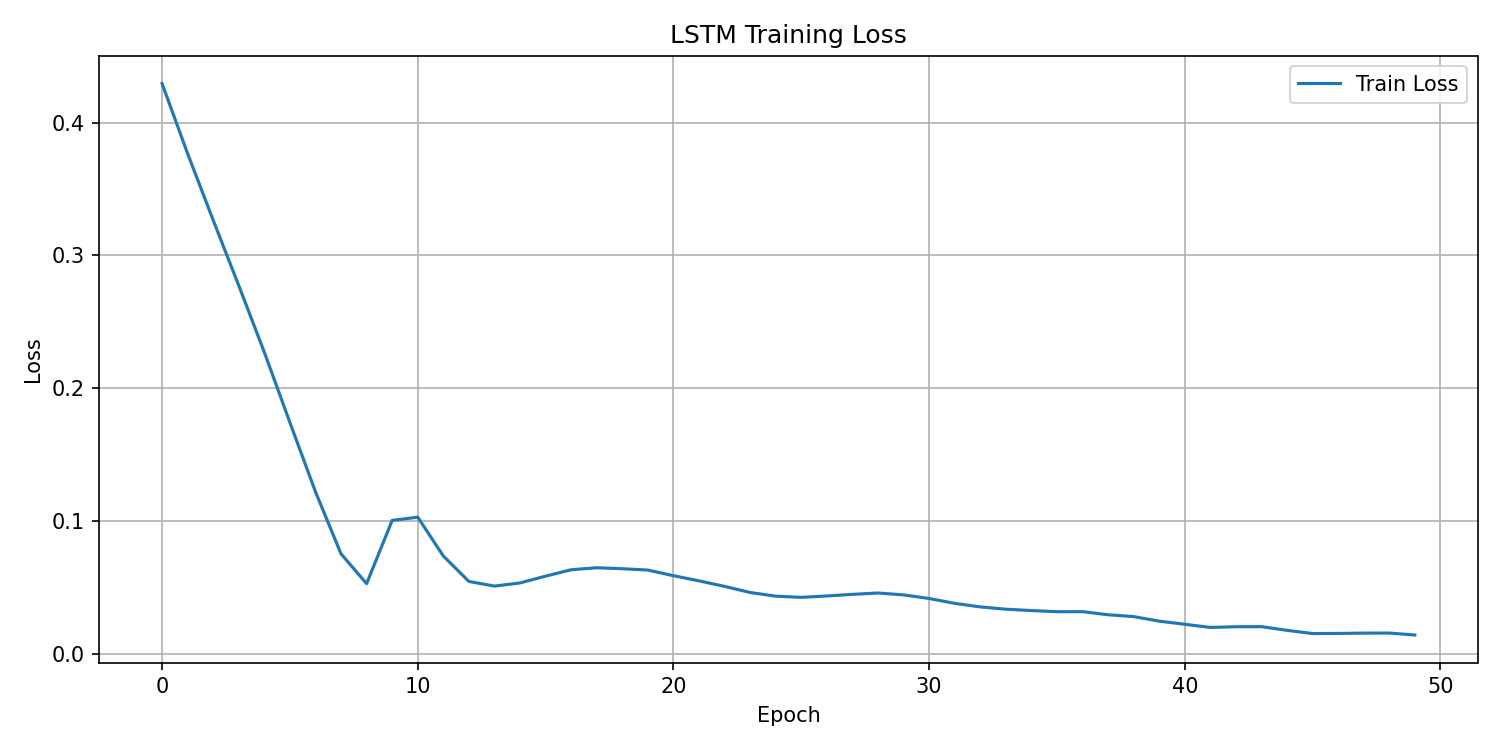
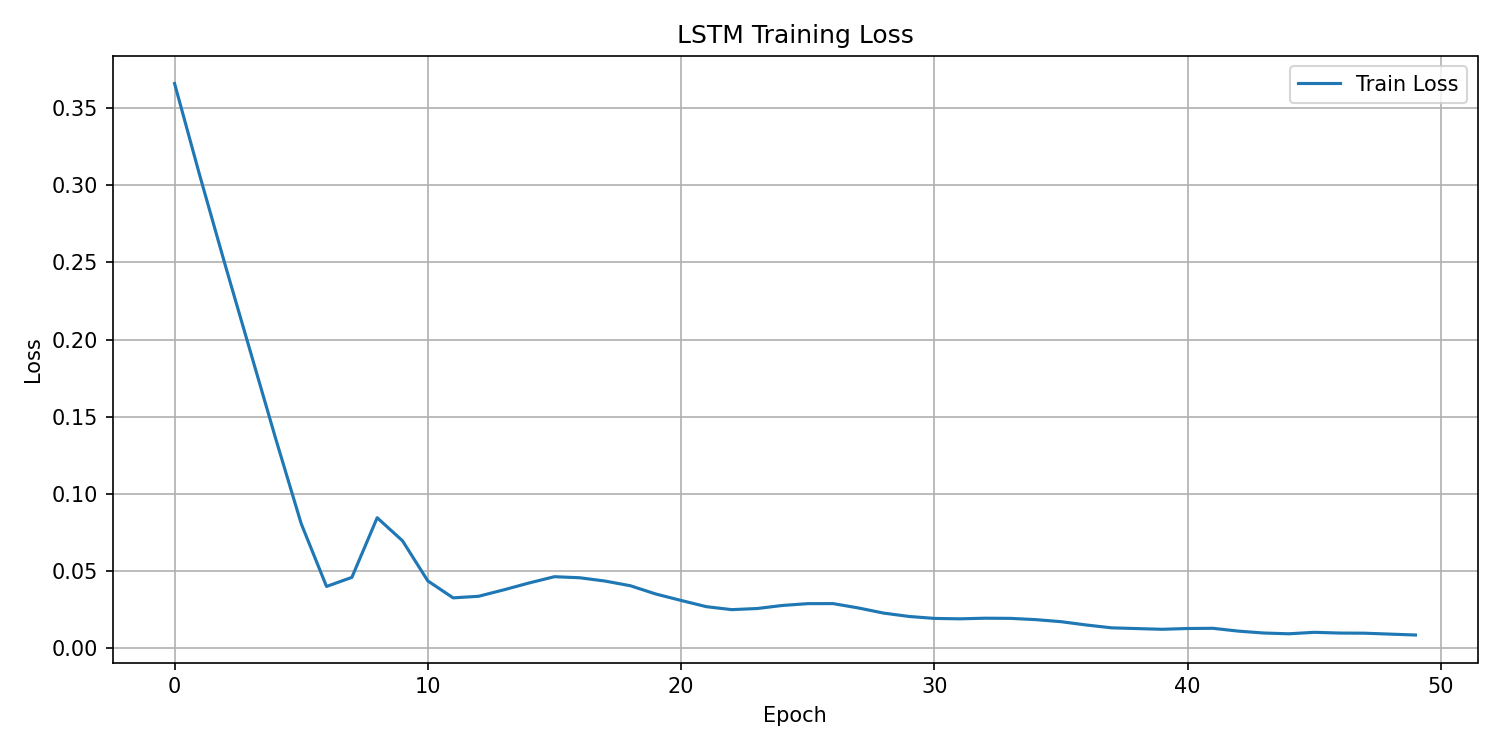
[feat] multi feature 적용

diff --git a/scripts/train_lstm.py b/scripts/train_lstm.py
@@ -1,6 +1,5 @@
-# train_lstm.py
+# scripts/train_lstm.py
 import json
-import os
 import torch
 import numpy as np
 import pandas as pd
@@ -9,53 +8,47 @@ from sklearn.preprocessing import MinMaxScaler
 from app.models.lstm_model import LSTMPricePredictor
 from app.services.data_loader import fetch_upbit_data
 import joblib
-from scripts.config_lstm import SEQ_LEN, HIDDEN_SIZE, NUM_LAYERS, LR, EPOCHS, COUNT,INPUT_SIZE,OUTPUT_SIZE, MODEL_PATH, SCALER_PATH
+import os
 import matplotlib.pyplot as plt
 from sklearn.metrics import mean_squared_error, mean_absolute_error, r2_score
+from scripts.config_lstm import SEQ_LEN, HIDDEN_SIZE, NUM_LAYERS, LR, EPOCHS, COUNT, INPUT_SIZE, OUTPUT_SIZE, MODEL_PATH, SCALER_PATH
 
-def make_sequences(data, seq_len):
+def make_sequences(data, seq_len=60):
     x, y = [], []
     for i in range(len(data) - seq_len):
         x.append(data[i:i+seq_len])
-        y.append(data[i+seq_len][0])  # 종가만 예측
+        y.append(data[i+seq_len, 0])  # 종가 예측 기준
     return np.array(x), np.array(y)
-
 
 def train_lstm():
     df = fetch_upbit_data(count=COUNT)
+    features = ["close", "open", "high", "low"]  # 여기를 필요에 따라 수정해도 됨
+
     if df is None or len(df) < SEQ_LEN:
         print("📉 데이터 부족. 최소 시퀀스 길이보다 작음.")
         return
-    # 멀티 피처 확장 여부 판단
-    if INPUT_SIZE == 4:
-        df = df[['timestamp', 'open', 'high', 'low', 'close', 'volume']]
-        features = df[['close', 'volume', 'high', 'low']].values
-    else:
-        df = df[['timestamp', 'close']]
-        features = df[['close']].values
 
-    # close = df['close'].values.reshape(-1, 1)
+    feature_data = df[features].values
     scaler = MinMaxScaler()
-    # scaled = scaler.fit_transform(close)
-    scaled = scaler.fit_transform(features)
+    scaled = scaler.fit_transform(feature_data)
 
-
-    x_data, y_data = make_sequences(scaled, SEQ_LEN)
+    x_data, y_data = make_sequences(scaled, seq_len=SEQ_LEN)
     x_tensor = torch.tensor(x_data).float()
     y_tensor = torch.tensor(y_data).float().unsqueeze(1)
 
     model = LSTMPricePredictor(
-        input_size=INPUT_SIZE,
+        input_size=len(features),
         hidden_size=HIDDEN_SIZE,
         num_layers=NUM_LAYERS,
         output_size=OUTPUT_SIZE
     )
+
     loss_fn = nn.MSELoss()
     optimizer = torch.optim.Adam(model.parameters(), lr=LR)
     
     losses = []
 
-    print(f"🔁 학습 시작: seq_len={SEQ_LEN}, hidden={HIDDEN_SIZE}, layers={NUM_LAYERS}, lr={LR}, epochs={EPOCHS}")
+    print(f"🔁 학습 시작: features={features}, seq_len={SEQ_LEN}, hidden={HIDDEN_SIZE}, layers={NUM_LAYERS}, lr={LR}, epochs={EPOCHS}")
     for epoch in range(EPOCHS):
         model.train()
         optimizer.zero_grad()
@@ -66,49 +59,39 @@ def train_lstm():
         losses.append(loss.item())
         print(f"Epoch {epoch+1}, Loss: {loss.item():.6f}")
 
+    torch.save({
+        "model_state_dict": model.state_dict()
+    }, MODEL_PATH)
+
+    # ✅ 스케일러 + 피처 정보 저장
+    joblib.dump({
+    "scaler": fitted_scaler,
+    "features": ["close", "open", "high", "low", "volume"]  # 학습 시 사용한 feature
+}, "scaler_lstm.pkl")
+
+
+    print("✅ 모델 및 스케일러 저장 완료")
+
+    # 예측 그래프 저장
     model.eval()
     with torch.no_grad():
-        preds = model(x_tensor).numpy()
-        y_true = y_tensor.numpy()
+        predicted = model(x_tensor).numpy()
+        predicted_prices = scaler.inverse_transform(
+            np.concatenate([predicted, np.zeros((predicted.shape[0], len(features)-1))], axis=1)
+        )[:, 0]
+        y_np = y_tensor.squeeze(1).numpy()
+        real_prices = scaler.inverse_transform(
+            np.concatenate([y_np.reshape(-1, 1), np.zeros((y_np.shape[0], len(features)-1))], axis=1)
+        )[:, 0]
 
-        if INPUT_SIZE == 4:
-            preds_inv = scaler.inverse_transform(np.hstack([preds, np.zeros((len(preds), 3))]))[:, 0]
-            y_inv = scaler.inverse_transform(np.hstack([y_true, np.zeros((len(y_true), 3))]))[:, 0]
-        else:
-            preds_inv = scaler.inverse_transform(preds)[:, 0]
-            y_inv = scaler.inverse_transform(y_true)[:, 0]
+    mse = mean_squared_error(real_prices, predicted_prices)
+    mae = mean_absolute_error(real_prices, predicted_prices)
+    r2 = r2_score(real_prices, predicted_prices)
 
-    mse = mean_squared_error(y_inv, preds_inv)
-    mae = mean_absolute_error(y_inv, preds_inv)
-    r2 = r2_score(y_inv, preds_inv)
+    print(f" MSE: {mse:.4f}, MAE: {mae:.4f}, R2: {r2:.4f}")
 
-    print(f"\n📊 Evaluation - MSE: {mse:.4f}, MAE: {mae:.2f}, R2: {r2:.4f}")
-
-    save_dir = "best_model"
-    os.makedirs(save_dir, exist_ok=True)
-
-    torch.save({"model_state_dict": model.state_dict()}, os.path.join(save_dir, "model.pt"))
-    joblib.dump(scaler, os.path.join(save_dir, "scaler.pkl"))
-
-    with open(os.path.join(save_dir, "model_info.json"), "w") as f:
-        json.dump({
-            "mse": float(mse),
-            "mae": float(mae),
-            "r2": float(r2),
-            "seq_len": SEQ_LEN,
-            "hidden_size": HIDDEN_SIZE,
-            "num_layers": NUM_LAYERS,
-            "epochs": EPOCHS,
-            "lr": LR,
-            "input_size": INPUT_SIZE,
-            "output_size": OUTPUT_SIZE,
-            "count": COUNT
-        }, f, indent=4)
-    
-    print(f" 모델 저장 완료: {save_dir}")
-    
-    # 손실 그래프 저장
-    plt.figure(figsize=(10, 5))                  # 그래프 사이즈 지정 (선택)
+    # 손실 그래프
+    plt.figure(figsize=(10, 5))
     plt.plot(losses, label="Train Loss")
     plt.title("LSTM Training Loss")
     plt.xlabel("Epoch")
@@ -152,8 +135,8 @@ def train_lstm():
 
     # 예측 그래프 저장
     plt.figure(figsize=(12, 6))
-    plt.plot(y_inv, label="Actual", color="blue")
-    plt.plot(preds_inv, label="Predicted", color="red")
+    plt.plot(real_prices, label="Actual Price", color="blue")
+    plt.plot(predicted_prices, label="Predicted Price", color="red")
     plt.title("LSTM Prediction vs Actual")
     plt.xlabel("Time Step")
     plt.ylabel("Price (KRW)")
@@ -161,6 +144,7 @@ def train_lstm():
     plt.grid(True)
     plt.tight_layout()
     plt.savefig("lstm_prediction.png", dpi=150)
+
     print("📈 예측 결과 그래프 저장 완료: lstm_prediction.png")
     print("✅ LSTM 모델 학습 완료")
 

diff --git a/app/models/lstm_model.py b/app/models/lstm_model.py
@@ -1,18 +1,17 @@
 # app/models/lstm_model.py
 import joblib
+import numpy as np
 import torch
 import pandas as pd
 from sklearn.preprocessing import MinMaxScaler
 from app.models.base import ModelBase
-from scripts.config_lstm import HIDDEN_SIZE, NUM_LAYERS, INPUT_SIZE, OUTPUT_SIZE
+from scripts.config_lstm import SEQ_LEN, HIDDEN_SIZE, NUM_LAYERS, INPUT_SIZE, OUTPUT_SIZE
 
 class LSTMPricePredictor(torch.nn.Module):
-    def __init__(self, input_size=1, hidden_size=64, num_layers=2, output_size=1):
+    def __init__(self, input_size=INPUT_SIZE, hidden_size=HIDDEN_SIZE, num_layers=NUM_LAYERS, output_size=OUTPUT_SIZE):
         super().__init__()
         self.lstm = torch.nn.LSTM(input_size, hidden_size, num_layers, batch_first=True, dropout=0.2)
         self.fc = torch.nn.Linear(hidden_size, output_size)
-        # self.relu = ReLU()
-        # self.fc2 = Linear(32, 1)
 
     def forward(self, x):
         out, _ = self.lstm(x)
@@ -21,38 +20,43 @@ class LSTMPricePredictor(torch.nn.Module):
 
 class LSTMModel(ModelBase):
     def __init__(self):
-        self.model = LSTMPricePredictor(
-            input_size=INPUT_SIZE,
-            hidden_size=HIDDEN_SIZE,
-            num_layers=NUM_LAYERS,
-            output_size=OUTPUT_SIZE
-        )
+        self.model = LSTMPricePredictor()
         self.scaler = MinMaxScaler()
+        self.features = ["close"]  # 기본값, load()에서 덮어씀
 
     def load(self):
         checkpoint = torch.load("model_lstm.pt", weights_only=False)
         self.model.load_state_dict(checkpoint["model_state_dict"])
-        # self.model.load_state_dict(torch.load("model_lstm.pt"))
         self.model.eval()
-    
-        # scaler 불러오기
-        self.scaler = joblib.load("scaler_lstm.pkl")
-       
 
+        scaler_obj = joblib.load("scaler_lstm.pkl")
+        if isinstance(scaler_obj, dict):
+            self.scaler = scaler_obj["scaler"]
+            self.feature_names = scaler_obj["features"]
+        else:
+            self.scaler = scaler_obj
+            self.feature_names = ["close"]  # 기본값
+
+    def prepare_input(self, df: pd.DataFrame) -> torch.Tensor:
+        features = df[self.features].values
+        scaled = self.scaler.transform(features)
+        x = torch.tensor(scaled).float().unsqueeze(0)
+        return x
 
     def predict(self, df: pd.DataFrame) -> dict:
-        close = df['close'].values.reshape(-1, 1)
-        # scaled = self.scaler.fit_transform(close) # 이미 학습된 모델이므로 금지, transform만 사용
-        scaled = self.scaler.transform(close)
+        features = df[self.feature_names].values
+        scaled = self.scaler.transform(features)
         x = torch.tensor(scaled).float().unsqueeze(0)
-
+    
         with torch.no_grad():
             y_pred = self.model(x).item()
-
-        predicted_price = self.scaler.inverse_transform([[y_pred]])[0][0]
-
+    
+        # 복원 시 첫 번째 열만 close로 복원
+        dummy_zero = [0] * (features.shape[1] - 1)
+        recovered = self.scaler.inverse_transform([[y_pred] + dummy_zero])[0][0]
+    
         return {
-            "predicted_price": round(predicted_price, 2),
-            "latest_real_price": float(close[-1]),
-            "diff": round(predicted_price - close[-1][0], 2)
+            "predicted_price": round(recovered, 2),
+            "latest_real_price": float(df["close"].values[-1]),
+            "diff": round(recovered - df["close"].values[-1], 2)
         }

diff --git a/app/services/predictor.py b/app/services/predictor.py
@@ -38,8 +38,6 @@ def get_recent_prediction_plot(model: str = "lstm", count: int = 300, use_experi
         if os.path.exists(experiment_dir):
             return experiment_dir
 
-
-    # fallback: 예측 직접 계산
     df = fetch_upbit_data(count=count)
     if df is None or len(df) < 100:
         raise ValueError("데이터 부족")
@@ -47,8 +45,24 @@ def get_recent_prediction_plot(model: str = "lstm", count: int = 300, use_experi
     model_class = model_dict[model]()
     model_class.load()
 
-    close = df['close'].values.reshape(-1, 1)
-    scaled = model_class.scaler.transform(close)
+    # --- 예상 입력 피처 추출 ---
+    try:
+        feature_names = model_class.scaler.feature_names_in_.tolist()
+    except AttributeError:
+        feature_count = model_class.scaler.n_features_in_
+        # ['close', 'open', 'high', 'low', 'volume'] 기준 우선 순위로 설정
+        all_possible = ["close", "open", "high", "low", "volume"]
+        feature_names = all_possible[:feature_count]
+
+    # 실제 df에 존재하는 컬럼만 사용
+    feature_names = [f for f in feature_names if f in df.columns]
+    if len(feature_names) != model_class.scaler.n_features_in_:
+        raise ValueError(
+            f"입력 피처 수 불일치: scaler expects {model_class.scaler.n_features_in_}, but got {len(feature_names)}"
+        )
+
+    input_data = df[feature_names].values
+    scaled = model_class.scaler.transform(input_data)
 
     seq_len = 90
     x_data = []
@@ -59,13 +73,16 @@ def get_recent_prediction_plot(model: str = "lstm", count: int = 300, use_experi
     with torch.no_grad():
         y_pred = model_class.model(x_tensor).numpy()
 
-    y_pred_rescaled = model_class.scaler.inverse_transform(y_pred)
-    y_true_rescaled = close[seq_len:]
+    # ✅ close만 inverse_transform
+    dummy = np.zeros((len(y_pred), input_data.shape[1]))
+    dummy[:, 0] = y_pred[:, 0]
+    y_pred_rescaled = model_class.scaler.inverse_transform(dummy)[:, 0]
+
+    y_true_rescaled = df['close'].values[seq_len:]
 
     mse = mean_squared_error(y_true_rescaled, y_pred_rescaled)
     mae = mean_absolute_error(y_true_rescaled, y_pred_rescaled)
     r2 = r2_score(y_true_rescaled, y_pred_rescaled)
-
 
     print(f"[DEBUG] Prediction MSE: {mse:.4f}, MAE: {mae:.2f}, R2: {r2:.4f}")
 

diff --git a/scripts/config_lstm.py b/scripts/config_lstm.py
@@ -7,7 +7,7 @@ NUM_LAYERS = 2      # LSTM 층 수
 LR = 0.001          # 학습률
 EPOCHS = 50         # 학습 에폭 수
 COUNT = 300         # fetch_upbit_data 개수
-INPUT_SIZE = 1      # 입력 크기 (종가 1개)
+INPUT_SIZE = 4      # 입력 크기 (종가 1개) 멀티피처: close, volume, high, low
 OUTPUT_SIZE = 1     # 출력 크기 (종가 1개)
 MODEL_PATH = "model_lstm.pt"
 SCALER_PATH = "scaler_lstm.pkl"
